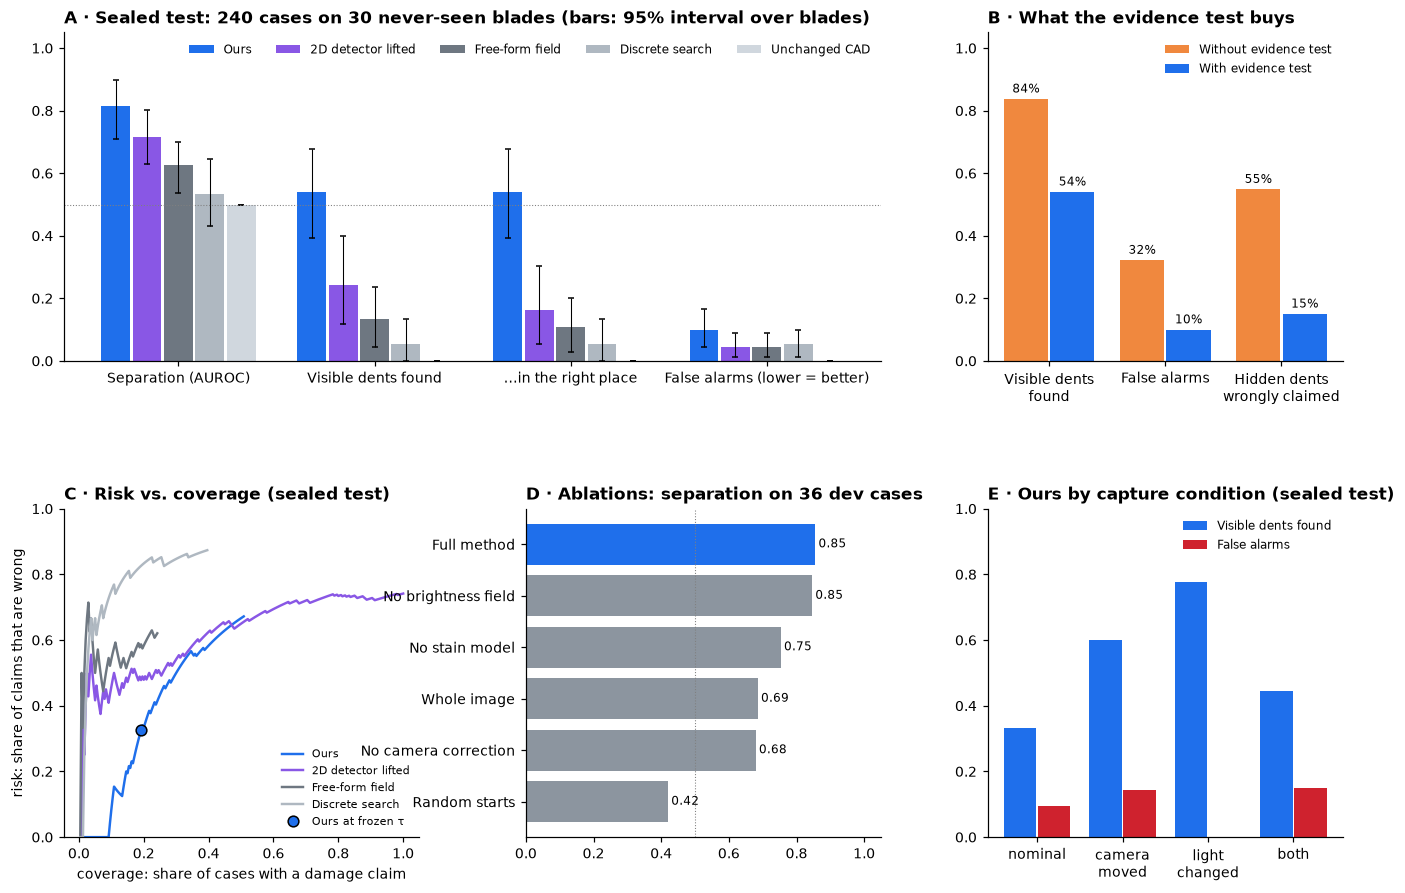
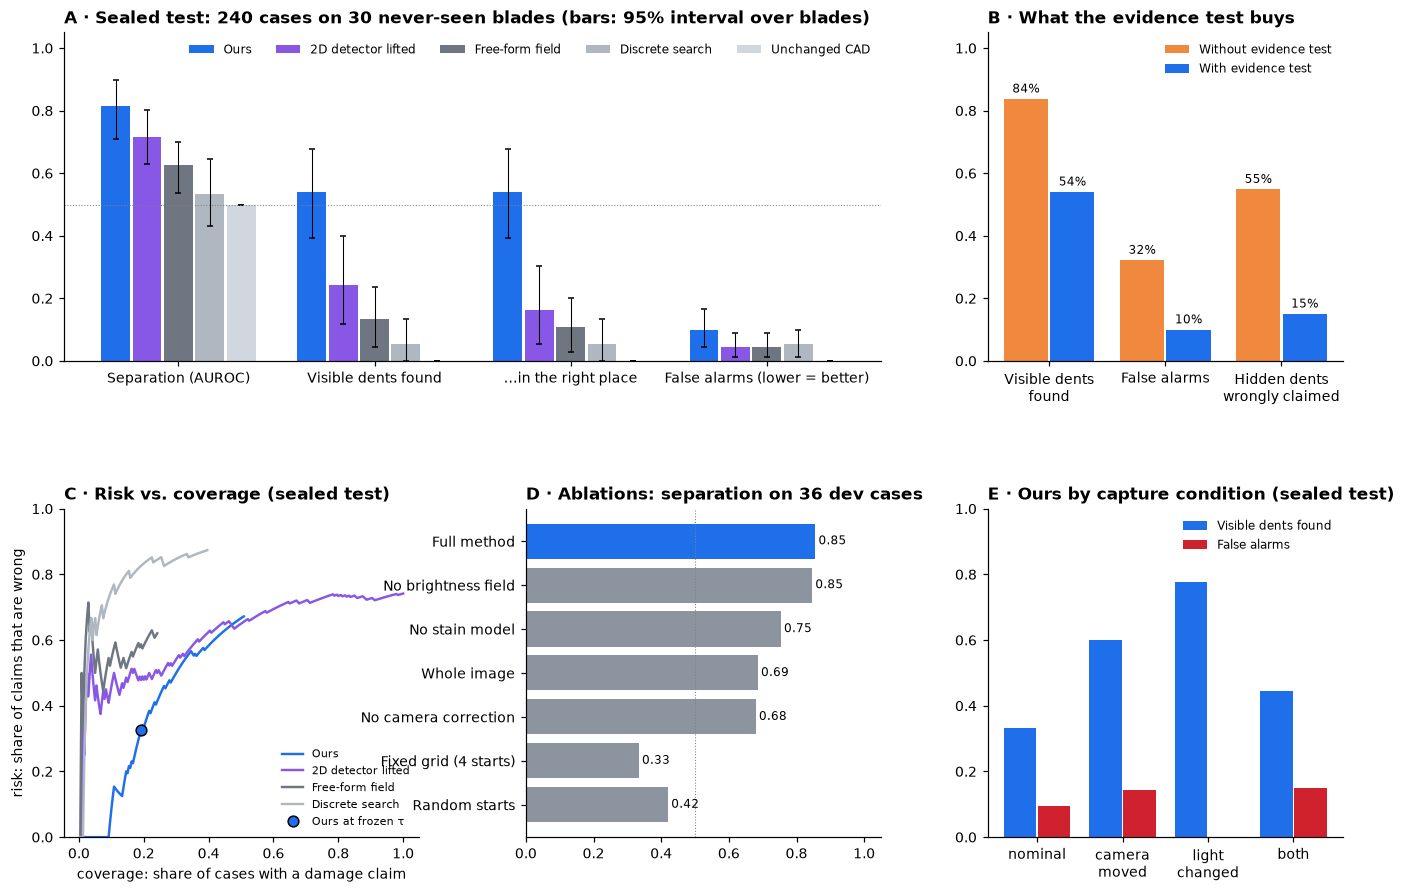
CAD6 complete: per-blade size chart, updated scores

Changed region(s): [[0.2448, 0.6047, 0.6121, 0.9071]]

diff --git a/results.html b/results.html
@@ -6,7 +6,7 @@
 <link rel="stylesheet" href="styles.css">
 <style>main.res{max-width:1100px;margin:0 auto;padding:32px 16px 64px;display:grid;gap:18px} main.res small{color:var(--muted)}</style>
 </head><body><main class="res">
-<span class="eyebrow">BladeDelta results · 08 Oct 2026, 13:43 UTC</span>
+<span class="eyebrow">BladeDelta results · 08 Oct 2026, 13:49 UTC</span>
 <h1>Sealed-test results <span class="chip partial">updating automatically</span></h1>
 <p>This page is rebuilt automatically from the experiment outputs. The test set is 240 cases on 30 blade shapes never used
 for development; the method and its threshold were locked before any test image existed. Brackets are 95% intervals,
@@ -35,6 +35,7 @@ blades 1&ndash;2 and will be reported on blades 3&ndash;6, next to the frozen re
 <figcaption>Each dot is one case. Red: healthy or stained blades, which should score below the dashed line. Blue: dents the cameras can
 see, which should score above it. Dents score high everywhere. On blades 1&ndash;3 (and partly 4) healthy blades score high too, so the frozen threshold
 cannot separate them; on blade 5 it mostly works. The false-alarm rate per blade is in the title.</figcaption></figure>
+<figure><img src="img/results/cad6_size.png" alt="CAD6 by blade size" style="max-width:760px"><figcaption>The frozen method works on the two largest blades (5 and 6) and fails on the small ones. Re-tuning one threshold on these blades does not help (4% false alarms, but only 13% of dents found), so the fix has to be in the method: v1.1.</figcaption></figure>
 <h3>Examples on your blades (left: photo with true dent orange and reported dent blue; middle: healthy reference; right: difference)</h3>
 <figure><img src="img/latest/cad6_1001_00.jpg" alt="Frozen v1 finds a real dent" loading="lazy"><figcaption><b>Frozen v1 finds a real dent.</b> Blade 1, no camera change: the dent (orange) is found exactly (blue).</figcaption></figure>
 <figure><img src="img/latest/cad6_1001_36.jpg" alt="Frozen v1: false alarm on a healthy blade" loading="lazy"><figcaption><b>Frozen v1: false alarm on a healthy blade.</b> Same blade, healthy, camera not moved: the photo and the healthy reference are identical (right panel is black), yet v1 reports dents near the edge. Its camera check nudged a correct camera by about 0.3&deg;.</figcaption></figure>
@@ -53,11 +54,11 @@ The disagreements are small, but on your blades they are enough to pull the came
 (0.1–1.0 mm deep, 1–5 mm radius). Nothing was retrained or re-tuned: the method, its appearance model (trained only on
 Rotor37) and its threshold are the frozen ones, so this measures how well it transfers to new blade designs.</p>
 <div class="tablewrap"><table><thead><tr><th>Method</th><th>Separation (AUROC)</th><th>Visible dents found</th><th>…in the right place</th><th>False alarms</th><th>Hidden dents: abstains</th></tr></thead><tbody><tr><td><b>Ours (evidence-bounded)</b></td><td>0.74 <small>[0.67–0.84]</small></td><td>94% <small>[89–98]</small></td><td>70% <small>[60–81]</small></td><td>67% <small>[36–97]</small></td><td>33% <small>[3–67]</small></td></tr><tr><td><b>Ours without the evidence test</b></td><td>0.74 <small>[0.67–0.84]</small></td><td>97% <small>[94–99]</small></td><td>73% <small>[61–84]</small></td><td>77% <small>[53–99]</small></td><td>27% <small>[2–58]</small></td></tr></tbody></table></div>
-<h3>Does it depend on blade size?</h3><ul><li>Separation (AUROC): 0.74 on CAD6 vs 0.82 on the Rotor37 sealed test (transfer gap 0.08).</li><li>Visible dents found 94%, false alarms 67%, hidden dents abstained 33%.</li><li>Best blade 1 (24 mm), worst blade 3 (31 mm).</li><li>Blade size vs. dents found, across 6 blades: Spearman ρ = -0.93 (p = 0.01; only 6 blades, so weak evidence).</li><li>Smaller blades (≤ median span) found 99% vs larger 88%. The same dent in mm is relatively larger on a small blade, so we also check depth relative to the blade: ρ(found, relative depth) = 0.10, ρ(found, depth in mm) = 0.02.</li><li>Found rate by relative-depth tertile (shallow → deep): 92%, 92%, 97%.</li><li>With a threshold recalibrated leave-one-blade-out on CAD6 negatives: found 13%, false alarms 4%.</li><li>Recommended blade for the physical capture: blade 5 (better transfer of blades 4 and 5).</li></ul>
+<h3>Does it depend on blade size?</h3><ul><li>Separation (AUROC): 0.74 on CAD6 vs 0.82 on the Rotor37 sealed test (transfer gap 0.08).</li><li>Visible dents found 94%, false alarms 67%, hidden dents abstained 33%.</li><li>Best blade 1 (24 mm), worst blade 3 (31 mm).</li><li>False alarms by blade, smallest to largest: 100%, 100%, 100%, 82%, 6%, 15%; Spearman ρ(blade size, false alarms) = -0.88 (p = 0.02).</li><li>Blade size vs. dents found, across 6 blades: Spearman ρ = -0.93 (p = 0.01; only 6 blades, so weak evidence).</li><li>Smaller blades (≤ median span) found 99% vs larger 88%. The same dent in mm is relatively larger on a small blade, so we also check depth relative to the blade: ρ(found, relative depth) = 0.10, ρ(found, depth in mm) = 0.02.</li><li>Found rate by relative-depth tertile (shallow → deep): 92%, 92%, 97%.</li><li>With a threshold recalibrated leave-one-blade-out on CAD6 negatives: found 13%, false alarms 4%.</li><li>Recommended blade for the physical capture: blade 5 (better transfer of blades 4 and 5).</li></ul>
 <div class="tablewrap"><table><thead><tr><th>Blade</th><th>Airfoil span</th><th>Cases</th><th>Visible dents</th><th>AUROC</th><th>Found</th><th>False alarms</th></tr></thead><tbody><tr><td>1</td><td>24 mm</td><td>76</td><td>31</td><td>0.98</td><td>100%</td><td>100%</td></tr><tr><td>2</td><td>26 mm</td><td>76</td><td>31</td><td>0.72</td><td>100%</td><td>100%</td></tr><tr><td>3</td><td>31 mm</td><td>76</td><td>31</td><td>0.64</td><td>97%</td><td>100%</td></tr><tr><td>4</td><td>40 mm</td><td>76</td><td>31</td><td>0.66</td><td>94%</td><td>82%</td></tr><tr><td>5</td><td>52 mm</td><td>76</td><td>31</td><td>0.93</td><td>84%</td><td>6%</td></tr><tr><td>6</td><td>70 mm</td><td>76</td><td>31</td><td>0.86</td><td>87%</td><td>15%</td></tr></tbody></table></div>
 <h2>Risk vs. coverage</h2><figure><img src="img/results/risk_coverage.png" alt="Risk-coverage curves" style="max-width:560px">
 <figcaption>Sweeping the evidence threshold: how many cases get a damage claim (coverage) and what fraction of those claims are wrong (risk). Lower and further right is better.</figcaption></figure>
-<h2>Ablations (36 development cases)</h2><div class="tablewrap"><table><thead><tr><th>Variant</th><th>Separation</th><th>Visible found</th><th>False alarms</th></tr></thead><tbody><tr><td>Full method</td><td>0.85 <small>[0.77–0.96]</small></td><td>67% <small>[41–88]</small></td><td>0% <small>[0–0]</small></td></tr><tr><td>No camera correction</td><td>0.68 <small>[0.49–0.84]</small></td><td>89% <small>[72–100]</small></td><td>39% <small>[21–56]</small></td></tr><tr><td>No stain model</td><td>0.75 <small>[0.56–0.90]</small></td><td>89% <small>[77–100]</small></td><td>50% <small>[33–69]</small></td></tr><tr><td>Random starts instead of smart proposals</td><td>0.42 <small>[0.23–0.62]</small></td><td>6% <small>[0–20]</small></td><td>0% <small>[0–0]</small></td></tr><tr><td>Fixed grid of 4 starts</td><td>–</td><td>0% <small>[0–0]</small></td><td>–</td></tr><tr><td>Whole image, not reliable pixels</td><td>0.69 <small>[0.49–0.85]</small></td><td>78% <small>[53–95]</small></td><td>6% <small>[0–20]</small></td></tr><tr><td>No brightness field</td><td>0.85 <small>[0.72–0.95]</small></td><td>94% <small>[80–100]</small></td><td>33% <small>[11–59]</small></td></tr><tr><td>4 views</td><td>0.83 <small>[0.71–0.95]</small></td><td>78% <small>[61–94]</small></td><td>6% <small>[0–19]</small></td></tr><tr><td>7 views</td><td>0.85 <small>[0.69–0.98]</small></td><td>78% <small>[61–94]</small></td><td>11% <small>[0–29]</small></td></tr></tbody></table></div>
+<h2>Ablations (36 development cases)</h2><div class="tablewrap"><table><thead><tr><th>Variant</th><th>Separation</th><th>Visible found</th><th>False alarms</th></tr></thead><tbody><tr><td>Full method</td><td>0.85 <small>[0.77–0.96]</small></td><td>67% <small>[41–88]</small></td><td>0% <small>[0–0]</small></td></tr><tr><td>No camera correction</td><td>0.68 <small>[0.49–0.84]</small></td><td>89% <small>[72–100]</small></td><td>39% <small>[21–56]</small></td></tr><tr><td>No stain model</td><td>0.75 <small>[0.56–0.90]</small></td><td>89% <small>[77–100]</small></td><td>50% <small>[33–69]</small></td></tr><tr><td>Random starts instead of smart proposals</td><td>0.42 <small>[0.23–0.62]</small></td><td>6% <small>[0–20]</small></td><td>0% <small>[0–0]</small></td></tr><tr><td>Fixed grid of 4 starts</td><td>0.33 <small>[0.00–1.00]</small></td><td>0% <small>[0–0]</small></td><td>0% <small>[0–0]</small></td></tr><tr><td>Whole image, not reliable pixels</td><td>0.69 <small>[0.49–0.85]</small></td><td>78% <small>[53–95]</small></td><td>6% <small>[0–20]</small></td></tr><tr><td>No brightness field</td><td>0.85 <small>[0.72–0.95]</small></td><td>94% <small>[80–100]</small></td><td>33% <small>[11–59]</small></td></tr><tr><td>4 views</td><td>0.83 <small>[0.71–0.95]</small></td><td>78% <small>[61–94]</small></td><td>6% <small>[0–19]</small></td></tr><tr><td>7 views</td><td>0.85 <small>[0.69–0.98]</small></td><td>78% <small>[61–94]</small></td><td>11% <small>[0–29]</small></td></tr></tbody></table></div>
 <h2>Examples (picked automatically)</h2><p>Left: the photo, with the <b style="color:#ff8c28">true dent in orange</b> and
 <b style="color:#2878e6">what the method reports in blue</b>. Middle: the healthy blade. Right: the difference (brighter = more different).</p>
 <figure><img src="img/latest/test_0062_4.jpg" alt="Found and measured" loading="lazy"><figcaption><b>Found and measured.</b> dent · capture: camera · true depth 0.14 mm, 100% visible · evidence score 31.6 (threshold 1.52) · shape error 8% of the unchanged CAD <small>(test_0062_4)</small></figcaption></figure>

diff --git a/index.html b/index.html
@@ -58,7 +58,7 @@
       <span class="eyebrow">Latest updates · 7 October 2026, afternoon</span>
       <h2 id="h-latest">Latest results, in pictures</h2>
       <p><b>Final sealed-test numbers and every method side by side: <a href="results.html">live results page</a></b> (rebuilt automatically as experiments finish).</p>
-      <!--AUTO-STATUS-START--><div class="note"><strong>Automatic status · 08 Oct 2026, 13:43 UTC</strong><p>5 of 14 phases done. Sealed test: separation 0.82, 54% of visible dents found, 10% false alarms. <a href="results.html">Full results and charts →</a></p></div><!--AUTO-STATUS-END-->
+      <!--AUTO-STATUS-START--><div class="note"><strong>Automatic status · 08 Oct 2026, 13:49 UTC</strong><p>5 of 14 phases done. Sealed test: separation 0.82, 54% of visible dents found, 10% false alarms. <a href="results.html">Full results and charts →</a></p></div><!--AUTO-STATUS-END-->
       <div class="stats">
         <div class="stat"><span class="big">213 / 240</span><span class="lbl">sealed-test cases done (27 never-seen blades); numbers below are preliminary</span></div>
         <div class="stat"><span class="big">0.81</span><span class="lbl">separation of visible dents from healthy/stained blades (was 0.89 at 80 cases)</span></div>
